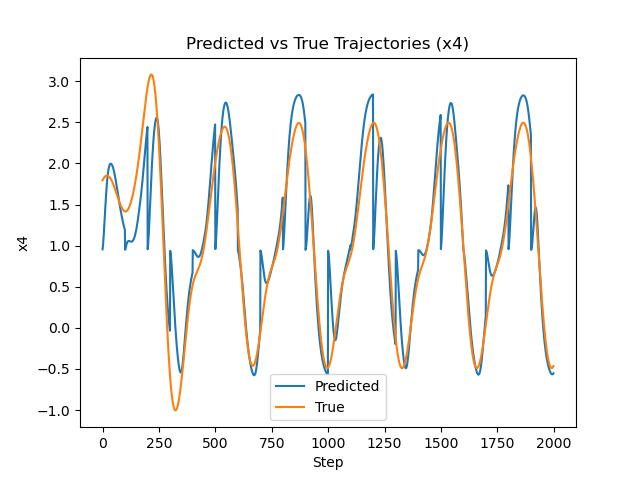
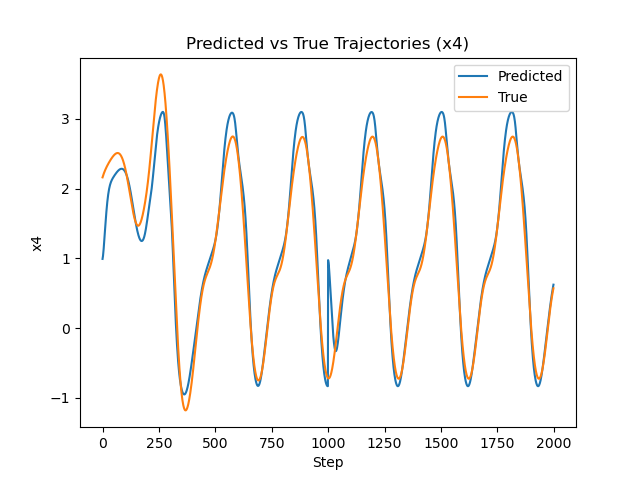
predict plot

diff --git a/examples/lorenz96_Fdim/lorenz96_task.py b/examples/lorenz96_Fdim/lorenz96_task.py
@@ -44,14 +44,24 @@ model = model.coRNN(n_inp, args.n_hid, n_out, args.dt, args.gamma, args.epsilon)
 objective = nn.MSELoss()
 optimizer = optim.Adam(model.parameters(), lr=args.lr)
 
-def test(path_to_test_csv, last_iter_bool):
+def test(path_to_test_csv):
     model.eval()
     with torch.no_grad():
         data, label = utils.get_data(path_to_test_csv, args.seq_len, args.dim)
         out = model(data.to(device))
-        loss = objective(out, label.to(device))       
+        loss = objective(out, label.to(device))
+    return loss.item()
+
+def predict(path_to_test_csv, last_iter_bool):
+    model.eval()
+    with torch.no_grad():
+        data, label = utils.get_data(path_to_test_csv, 1000, args.dim)
+        # print(f"data size :{data.size()}")
+        out = model(data.to(device))
+        #print(f"out: {out}")
         if last_iter_bool:
             out_np = out.numpy()
+            # print(f"out_np : {out_np.shape}")
             concat_out = np.concatenate(out_np).tolist()
             label_np = label.numpy()
             concat_label = np.concatenate(label_np).tolist()
@@ -64,7 +74,7 @@ def test(path_to_test_csv, last_iter_bool):
             plt.ylabel('x4')
             plt.legend()
             plt.savefig('Predicted_vs_Observed_Trajectory.png')
-    return loss.item()
+    return
 
 
 def train():
@@ -93,7 +103,8 @@ def train():
             if i == len(train_files)-1:
                 last_iter_bool = True
             test_csv_path = os.path.join(test_dir,test_files[i])
-            error = test(test_csv_path, last_iter_bool)
+            error = test(test_csv_path)
+            predict(test_csv_path, last_iter_bool)
             steps.append(i)
             test_err.append(error)
             model.train()
